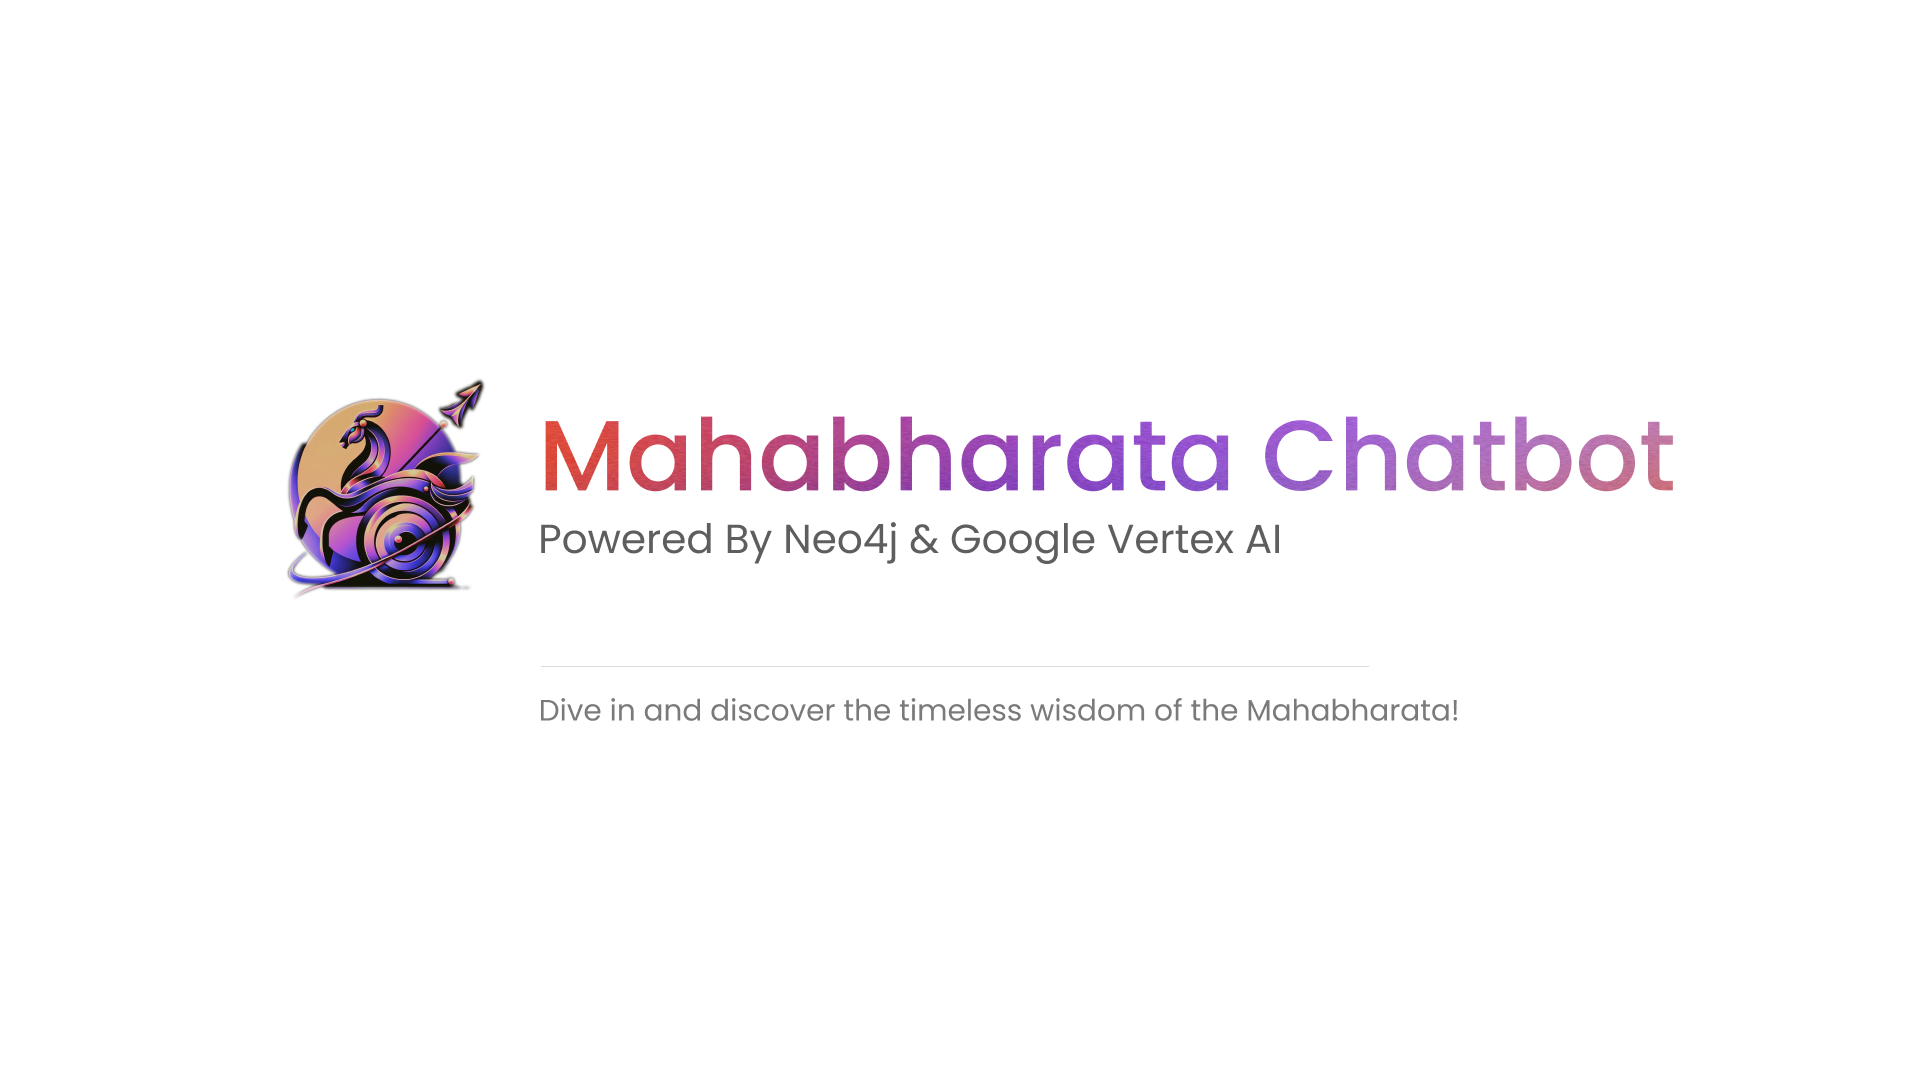
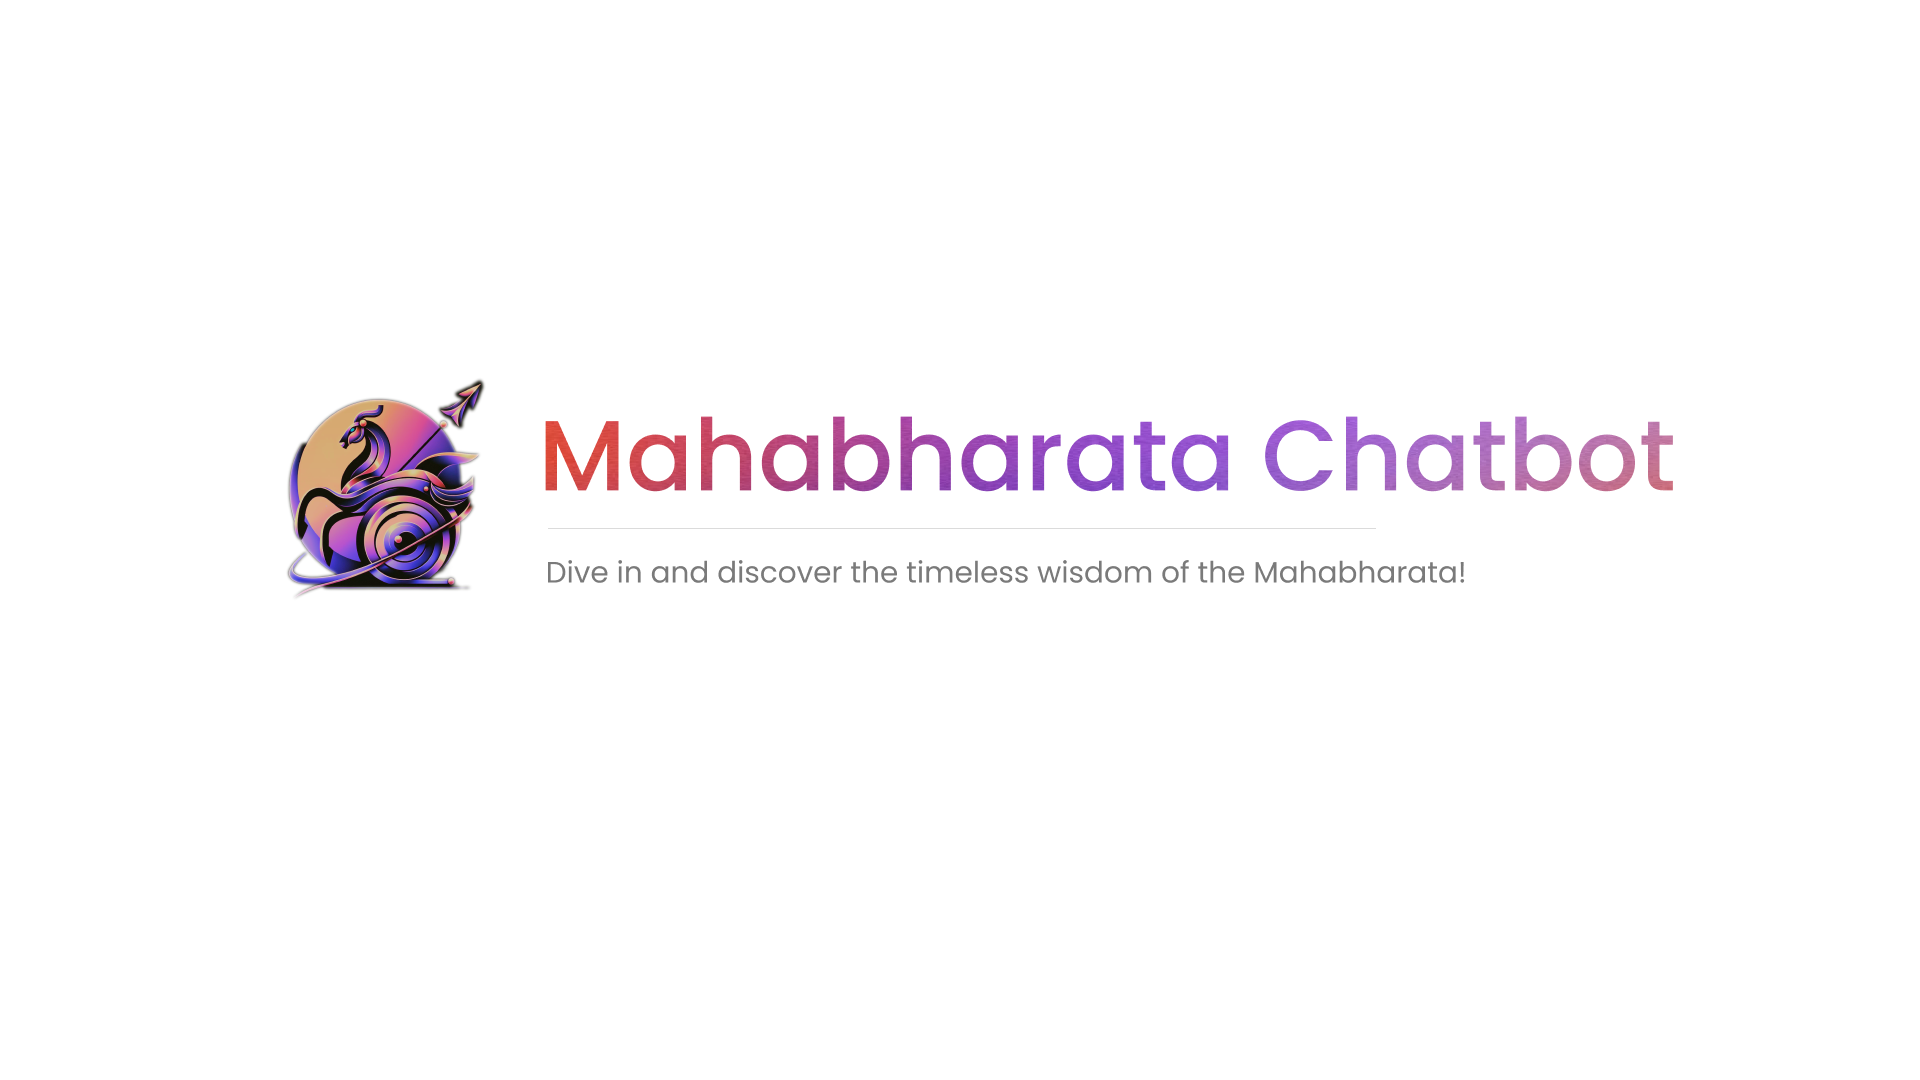
Update AI model logging and enhance homepage content for clarity

Changed region(s): [[0.2812, 0.4889, 0.7812, 0.55], [0.2812, 0.6417, 0.75, 0.6722]]

diff --git a/website/public/index.html b/website/public/index.html
@@ -22,7 +22,7 @@
     {
       "@context": "https://schema.org",
       "@type": "Organization",
-      "url": "https://mahabharata-chatbot.web.app/",
+      "url": "https://mb-aisage.netlify.app/",
       "logo": "https://raw.githubusercontent.com/vrijraj/export/main/images/mahabharata-chatbot.png"
     }
   </script>
@@ -31,25 +31,25 @@
   <meta content="yes" name="apple-mobile-web-app-capable" />
   <meta content="black-translucent" name="apple-mobile-web-app-status-bar-style" />
   <meta name="description"
-    content="The Mahabharata, an ancient Indian epic, explores duty, love, and vengeance amidst complex relationships. It asks whether righteousness or darkness will prevail, offering timeless wisdom through its legendary tale. Dive in and discover the timeless wisdom of the Mahabharata!" />
+    content="The Mahabharata, an ancient Indian epic of duty, love, and vengeance. This legendary tale explores complex relationships and the eternal struggle between righteousness and darkness. Dive in and uncover its timeless wisdom." />
   <meta name="author" content="Mahabharata Chatbot Team" />
-  <meta property="keywords" content="Mahabharata, Gemini, Neo4j, vrijraj, siddhant" />
+  <meta property="keywords" content="Mahabharata, Neo4j, OpenAI, VertexAI, Claude, ElevenLabs, Siddhant" />
 
   <!-- Google -->
   <meta itemprop="name" content="Mahabharata Chatbot">
   <meta itemprop="description"
-    content="The Mahabharata, an ancient Indian epic, explores duty, love, and vengeance amidst complex relationships. It asks whether righteousness or darkness will prevail, offering timeless wisdom through its legendary tale. Dive in and discover the timeless wisdom of the Mahabharata!">
-  <meta itemprop="image" content="https://raw.githubusercontent.com/vrijraj/export/main/images/mahabharata-chatbot.png">
+    content="The Mahabharata, an ancient Indian epic of duty, love, and vengeance. This legendary tale explores complex relationships and the eternal struggle between righteousness and darkness. Dive in and uncover its timeless wisdom.">
+  <meta itemprop="image" content="https://raw.githubusercontent.com/sidagrwal04/export/main/images/mahabharata-chatbot.png">
 
 
   <!-- SEO Facebook Tags -->
-  <meta property="og:url" content="https://mahabharata-chatbot.web.app/">
+  <meta property="og:url" content="https://mb-aisage.netlify.app/">
   <meta property="og:type" content="website">
   <meta property="og:title" content="Mahabharata Chatbot">
   <meta property="og:description"
     content="The Mahabharata, an ancient Indian epic, explores duty, love, and vengeance amidst complex relationships. It asks whether righteousness or darkness will prevail, offering timeless wisdom through its legendary tale. Dive in and discover the timeless wisdom of the Mahabharata!">
   <meta property="og:image"
-    content="https://raw.githubusercontent.com/vrijraj/export/main/images/mahabharata-chatbot.png">
+    content="https://raw.githubusercontent.com/sidagrwal04/export/main/images/mahabharata-chatbot.png">
   <!-- SEO Facebook Tags -->
 
   <!-- SEO Twitter Tags -->
@@ -58,7 +58,7 @@
   <meta name="twitter:description"
     content="The Mahabharata, an ancient Indian epic, explores duty, love, and vengeance amidst complex relationships. It asks whether righteousness or darkness will prevail, offering timeless wisdom through its legendary tale. Dive in and discover the timeless wisdom of the Mahabharata!">
   <meta name="twitter:image"
-    content="https://raw.githubusercontent.com/vrijraj/export/main/images/mahabharata-chatbot.png">
+    content="https://raw.githubusercontent.com/sidagrwal04/export/main/images/mahabharata-chatbot.png">
   <!-- SEO Twitter Tags -->
   <!-- Google tag (gtag.js) -->
   <script async src="https://www.googletagmanager.com/gtag/js?id=G-W94XSCNS7C"></script>

diff --git a/website/src/views/HomeView.vue b/website/src/views/HomeView.vue
@@ -25,10 +25,7 @@
         </p>
         <p style="font-size: 100%" class="poppins-regular text--secondary mb-4">
           <!-- Delve into the legendary Mahabharata, an epic tale teeming with thousands of characters - heroes and villains, gods and mortals, all intertwined in a web of duty, love, and vengeance. Witness the power of relationships that forge alliances and ignite devastating wars. Explore the complex bonds of brotherhood, the unwavering loyalty of friendship, and the devastating consequences of jealousy and betrayal. Will righteousness prevail, or will darkness consume the land? Dive in and discover the timeless wisdom of the Mahabharata! -->
-          The Mahabharata, an ancient Indian epic, explores duty, love, and
-          vengeance amidst complex relationships. It asks whether righteousness
-          or darkness will prevail, offering timeless wisdom through its
-          legendary tale. Dive in and discover the timeless wisdom of the Mahabharata! 
+          The Mahabharata, an ancient Indian epic of duty, love, and vengeance. This legendary tale explores complex relationships and the eternal struggle between righteousness and darkness. Dive in and uncover its timeless wisdom
 
           <!-- A Graph Journey using
           <a
@@ -124,13 +121,19 @@
             class="cii-animation-font"
             target="_blank"
             >Claude</a
-          >
-          and
+          >,
           <a
             href="https://cloud.google.com/vertex-ai"
             class="cii-animation-font"
             target="_blank"
             >Google Vertex AI</a
+          >
+          and
+          <a
+            href="https://elevenlabs.io/"
+            class="cii-animation-font"
+            target="_blank"
+            >Eleven Labs</a
           >
         </p>
         <!-- <p class="mb-0" style="font-size: 90%; display: inline">

diff --git a/website/src/App.vue b/website/src/App.vue
@@ -7,7 +7,7 @@
       <v-toolbar-title class="poppins-medium">
         <p class="mb-0 cii-animation-font">Mahabharata Chatbot</p>
         <p class="mb-0 mt-n1" style="font-size: 55%; color: #616161">
-          Powered By Neo4j, OpenAI, Google Vertex AI & Claude
+          When GenAI meets ancient wisdom
         </p>
       </v-toolbar-title>
       <v-spacer></v-spacer>
@@ -56,19 +56,6 @@
     <v-main>
       <router-view />
     </v-main>
-
-    <!-- <v-footer
-      app
-      color="white"
-      class="text-center px-md-10 poppins-light"
-      style="align-items: center; align-content: center; text-align: center"
-    >
-      <p class="mb-0" style="font-size: 90%">Powered By Neo4j</p>
-      <v-spacer></v-spacer>
-      <p class="mb-0" style="font-size: 90%">
-        Designed by <a href="https://vrijraj.xyz/" target="_blank">Vrijraj</a>
-      </p>
-    </v-footer> -->
   </v-app>
 </template>
 

diff --git a/app.py b/app.py
@@ -309,6 +309,8 @@ def get_llm(model: str):
 
         elif "claude" in model or "anthropic" in model:
             model_name, api_key = env_value.split(",")
+            logging.info(f"Anthropic model: {model_name}")
+            logging.info(f"Anthropic API key: {api_key}")
             llm = ChatAnthropic(api_key=api_key, model=model_name, temperature=0)
 
         else:
@@ -877,7 +879,7 @@ with gr.Blocks(css=custom_css, theme="soft") as demo:
 
     # Dropdown for LLM selection
     llm_dropdown = gr.Dropdown(
-        choices=["openai-gpt-4o", "gemini-2.5-pro-experimental", "gemini-2.0-pro", "gemini-1.5-pro", "gemini-1.5-flash", "claude"],
+        choices=["openai-gpt-4o", "gemini-2.5-pro-experimental", "gemini-2.0-pro", "gemini-1.5-pro", "gemini-1.5-flash", "anthropic-claude-3-7-sonnet"],
         label="Select Your AI Sage",
         value=None,
         interactive=True,
